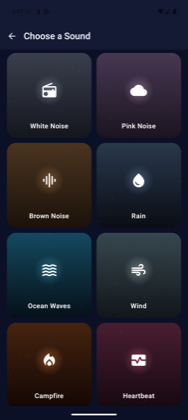
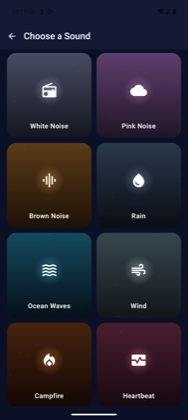
Bump saturation on White/Pink/Brown Noise palettes
The color-named noises leaned too gray/muddy compared to the more vivid
thematic sounds (Campfire, Heartbeat, Ocean Waves). Slightly richer hues
on background gradients and icon-glow accents; other sounds untouched.

Claude-Session: https://claude.ai/code/session_01CxujLUX7EhUgdeqc6zaxqi

Changed region(s): [[0.5053, 0.1238, 0.9574, 0.1857]]

diff --git a/app/src/main/java/com/apkrocket/sleeptight/ui/background/SoundPalette.kt b/app/src/main/java/com/apkrocket/sleeptight/ui/background/SoundPalette.kt
@@ -7,9 +7,9 @@ import com.apkrocket.sleeptight.audio.SoundType
 class SoundPalette(val top: Color, val bottom: Color, val accent: Color)
 
 val soundPalettes = mapOf(
-    SoundType.WHITE_NOISE to SoundPalette(Color(0xFF3A3F4E), Color(0xFF14161D), Color(0xFFC7CEE0)),
-    SoundType.PINK_NOISE to SoundPalette(Color(0xFF473852), Color(0xFF1B1420), Color(0xFFECBEE0)),
-    SoundType.BROWN_NOISE to SoundPalette(Color(0xFF4A3420), Color(0xFF1B120A), Color(0xFFD79A5C)),
+    SoundType.WHITE_NOISE to SoundPalette(Color(0xFF464C63), Color(0xFF14161D), Color(0xFFD8E1FF)),
+    SoundType.PINK_NOISE to SoundPalette(Color(0xFF5E3F6E), Color(0xFF1F1526), Color(0xFFFF9BDB)),
+    SoundType.BROWN_NOISE to SoundPalette(Color(0xFF5C3A16), Color(0xFF1D1207), Color(0xFFF0A94A)),
     SoundType.RAIN to SoundPalette(Color(0xFF29384C), Color(0xFF0A0D14), Color(0xFF8FB4D6)),
     SoundType.OCEAN_WAVES to SoundPalette(Color(0xFF15495F), Color(0xFF051019), Color(0xFF5FC2DE)),
     SoundType.WIND to SoundPalette(Color(0xFF37474F), Color(0xFF11161A), Color(0xFFD7E3E8)),
